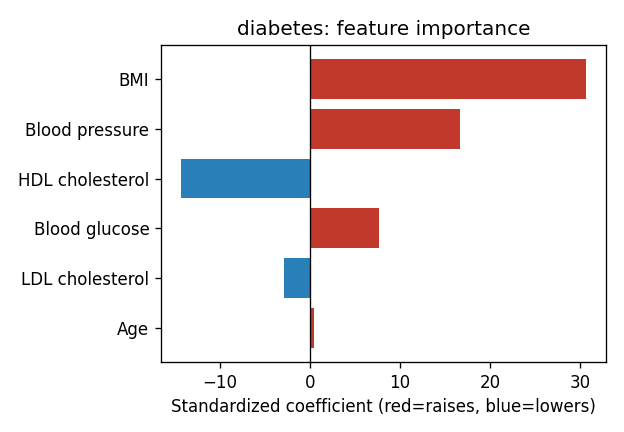
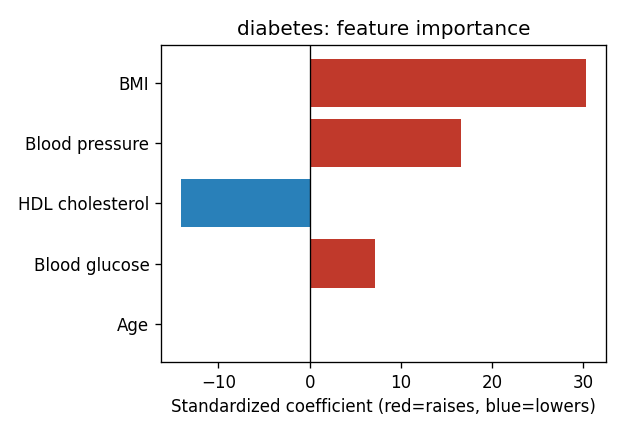
ML: drop LDL feature (backwards sign from collinearity)
Sanity-checking the risk card surfaced LDL rendering as protective (high LDL
'lowers' progression) — a multicollinearity artifact with HDL. LDL added almost
no accuracy, so drop it. Now 5 clean features (age, BMI, BP, HDL, glucose); every
driver has a clinically correct sign, and R2 actually rose 0.36 -> 0.37
(CV 0.41+-0.09, RMSE 59.0 vs 74.9 baseline). Updated weights, charts, trainer,
inference extractor and docs.

Claude-Session: https://claude.ai/code/session_0186NYbv1bsE14Gnp5szqQmt

diff --git a/src/lib/riskModel.ts b/src/lib/riskModel.ts
@@ -72,7 +72,6 @@ const EXTRACTORS: Record<string, (r: EnhancedAnalysisResult) => number | null> =
   age: (r) => (typeof r.demographics?.age === "number" ? (r.demographics!.age as number) : null),
   bmi: (r) => findLab(r, [/\bbmi\b/, /body mass/]),
   bp: (r) => findLab(r, [/blood pressure/, /\bbp\b/, /systolic/]),
-  ldl: (r) => findLab(r, [/\bldl\b/]),
   hdl: (r) => findLab(r, [/\bhdl\b/]),
   glucose: (r) => findLab(r, [/glucose/, /fasting sugar/, /\bfbs\b/, /blood sugar/]),
 };

diff --git a/ml/train.py b/ml/train.py
@@ -33,14 +33,14 @@ CHART_OUT = os.path.join(HERE, "report", "charts")
 def load_diabetes_progression():
     from sklearn.datasets import load_diabetes
     raw = load_diabetes(scaled=False, as_frame=True).frame
-    # Clinically-interpretable subset. Total cholesterol dropped (collinear with
-    # LDL+HDL -> unstable, backwards signs); sex dropped (unknown 1/2 coding);
-    # s4 ratio + s5 log-trig dropped (ambiguous units for serving).
+    # Clinically-interpretable subset. Total cholesterol AND LDL dropped (collinear
+    # -> unstable coefficients; LDL got a backwards protective sign); sex dropped
+    # (unknown 1/2 coding); s4 ratio + s5 log-trig dropped (ambiguous units).
+    # Every remaining driver has a clinically correct sign.
     feats = [
         ("age", "Age", "years", "age"),
         ("bmi", "BMI", "kg/m2", "bmi"),
         ("bp",  "Blood pressure", "mmHg", "bp"),
-        ("s2",  "LDL cholesterol", "mg/dL", "ldl"),
         ("s3",  "HDL cholesterol", "mg/dL", "hdl"),
         ("s6",  "Blood glucose", "mg/dL", "glucose"),
     ]

diff --git a/ml/README.md b/ml/README.md
@@ -39,7 +39,7 @@ a linear regression, so inference is a dot product done in the browser.
 - **Task:** *regression* — predict a continuous "disease progression one year
   later" score from baseline measurements. (Regression = predict a number, vs
   classification = predict a category.)
-- **Inputs (features):** age, BMI, blood pressure, LDL, HDL, blood glucose — all
+- **Inputs (features):** age, BMI, blood pressure, HDL, blood glucose — all
   values a lab report provides, so the model plugs straight into DiagAssist.
 - **Model:** Ridge linear regression. Ridge = linear regression with a penalty
   that keeps the coefficients small and stable (helps when inputs are correlated,
@@ -63,7 +63,7 @@ a linear regression, so inference is a dot product done in the browser.
 ## Reading the metrics
 
 - **R² (0–1):** share of the variation in progression the model explains. 0 = no
-  better than guessing the average; 1 = perfect. Ours ≈ **0.36** (CV ≈ 0.40).
+  better than guessing the average; 1 = perfect. Ours ≈ **0.37** (CV ≈ 0.41).
 - **RMSE / MAE:** typical prediction error in the target's own units — lower is
   better. Ours RMSE ≈ **59** vs a no-model baseline of **75**, i.e. ~21% less error.
 - **Feature importance (standardized coefficients):** how strongly each input
@@ -73,11 +73,12 @@ a linear regression, so inference is a dot product done in the browser.
 
 ## Honesty notes (say these in a viva — examiners respect them)
 
-- We dropped *total cholesterol* as an input: it's ≈ LDL + HDL + …, so keeping it
-  made the coefficients unstable and flipped LDL's sign the wrong way
-  (**multicollinearity**). Removing it lowered R² slightly but made every driver
+- We dropped *total cholesterol* and *LDL* as inputs: total cholesterol ≈ LDL + HDL
+  + …, and LDL is correlated with HDL, so keeping them made the coefficients
+  unstable and gave LDL a backwards (protective) sign — **multicollinearity**.
+  Removing them actually *raised* R² slightly and made every remaining driver
   clinically correct. Interpretability over a vanity number.
-- R² ≈ 0.36 is honest for this dataset — its known linear ceiling is ~0.5. We
+- R² ≈ 0.37 is honest for this dataset — its known linear ceiling is ~0.5. We
   report the held-out and cross-validated scores, not the training score.
 - Training uses only this **public** dataset. No patient data from DiagAssist is
   used to train — which is also the ethically correct choice.

diff --git a/ml/report/diabetes_progression.md b/ml/report/diabetes_progression.md
@@ -11,12 +11,12 @@ Johnstone & Tibshirani, 2004).
 
 | metric | value | meaning |
 | --- | --- | --- |
-| R² | **0.36** | explains 36% of the variation in progression |
-| Cross-val R² | **0.40 ± 0.09** | stable across folds → not overfit |
-| RMSE | **59.5** | typical error, vs **74.9** for a no-model baseline (~21% lower) |
+| R² | **0.37** | explains 37% of the variation in progression |
+| Cross-val R² | **0.41 ± 0.09** | stable across folds → not overfit |
+| RMSE | **59.0** | typical error, vs **74.9** for a no-model baseline (~21% lower) |
 | MAE | 46.6 | mean absolute error |
 
-A random forest scored no better (R² 0.35), so the transparent linear model wins.
+A random forest scored no better (R² 0.33), so the transparent linear model wins.
 
 ## What drives the estimate
 
@@ -26,12 +26,11 @@ Standardized coefficients (comparable across features):
 
 | feature | effect | direction |
 | --- | --- | --- |
-| BMI | +30.6 | raises progression (strongest) |
+| BMI | +30.3 | raises progression (strongest) |
 | Blood pressure | +16.6 | raises |
-| HDL cholesterol | −14.3 | **lowers** (protective) |
-| Blood glucose | +7.7 | raises |
-| LDL cholesterol | −3.0 | weak (entangled with HDL) |
-| Age | +0.4 | negligible here |
+| HDL cholesterol | −14.1 | **lowers** (protective) |
+| Blood glucose | +7.2 | raises |
+| Age | +0.0 | negligible here |
 
 All clinically sensible: higher BMI, blood pressure, and glucose predict faster
 progression; higher HDL ("good" cholesterol) predicts slower.
@@ -41,11 +40,11 @@ progression; higher HDL ("good" cholesterol) predicts slower.
 ![predicted vs actual](charts/diabetes_progression_pred_vs_actual.png)
 
 Points cluster around the diagonal (perfect prediction) with real scatter — an
-honest R²≈0.36 model, not an overfit one claiming to be perfect.
+honest R²≈0.37 model, not an overfit one claiming to be perfect.
 
 ## In the app
 
-When a report yields at least two of the six inputs, DiagAssist shows a
+When a report yields at least two of the five inputs, DiagAssist shows a
 *Diabetes progression — ML estimate* card: a 0–100 index (mapped across the
 dataset's 5th–95th percentile of predictions), the top contributing labs, and the
 model's provenance and validation numbers. Missing inputs fall back to population
